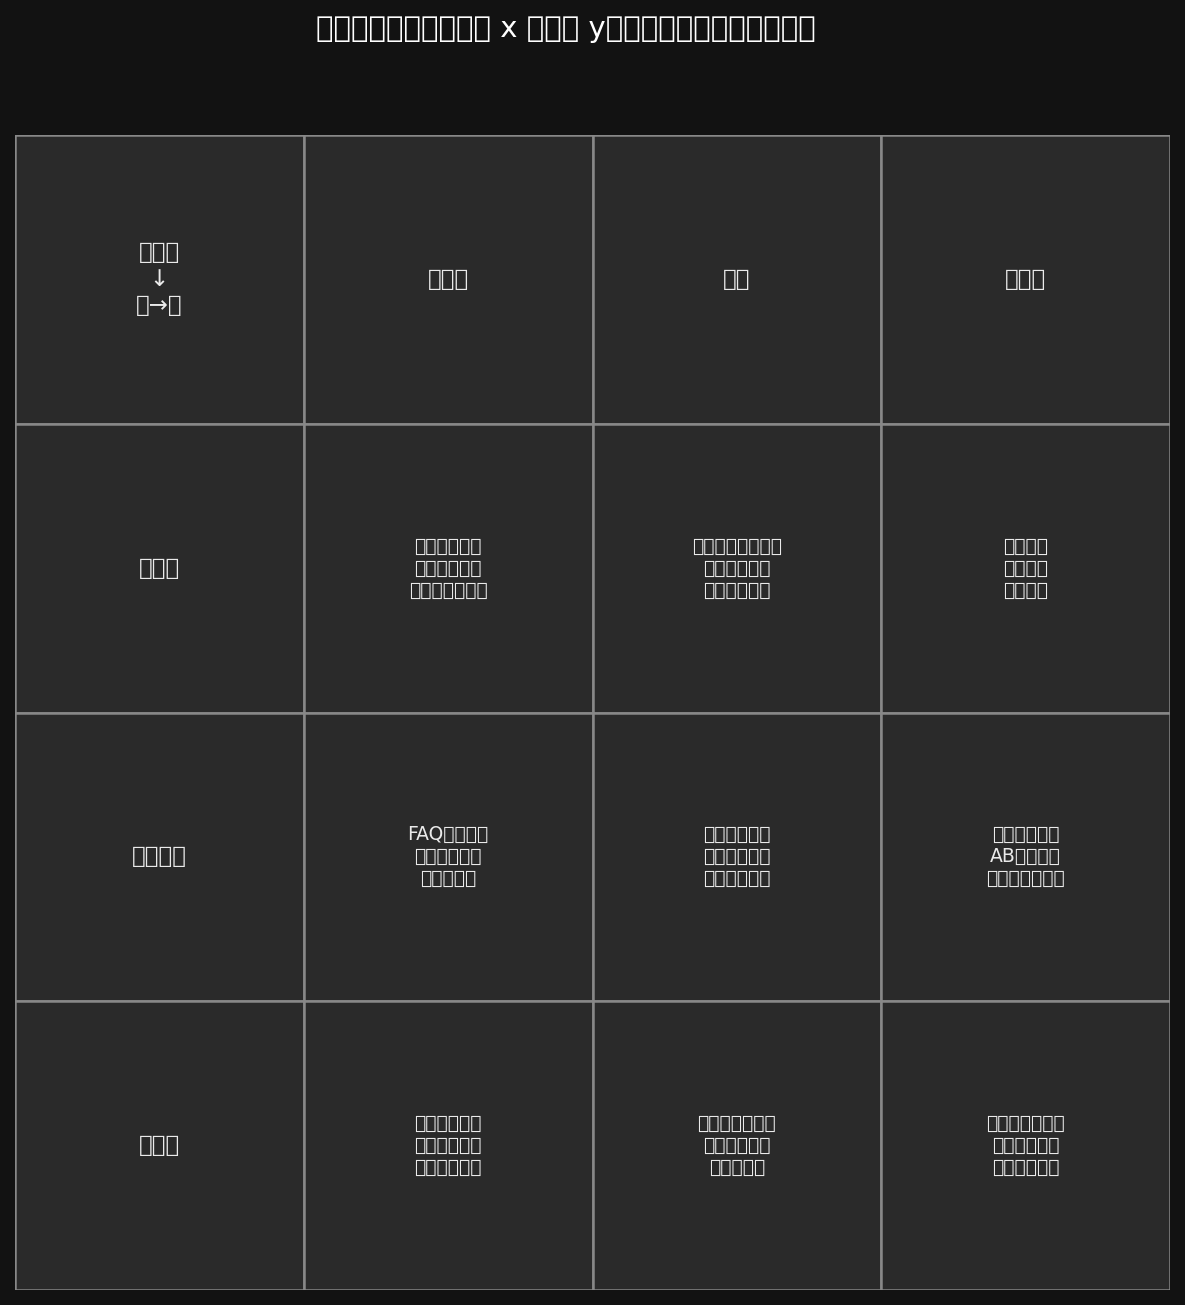
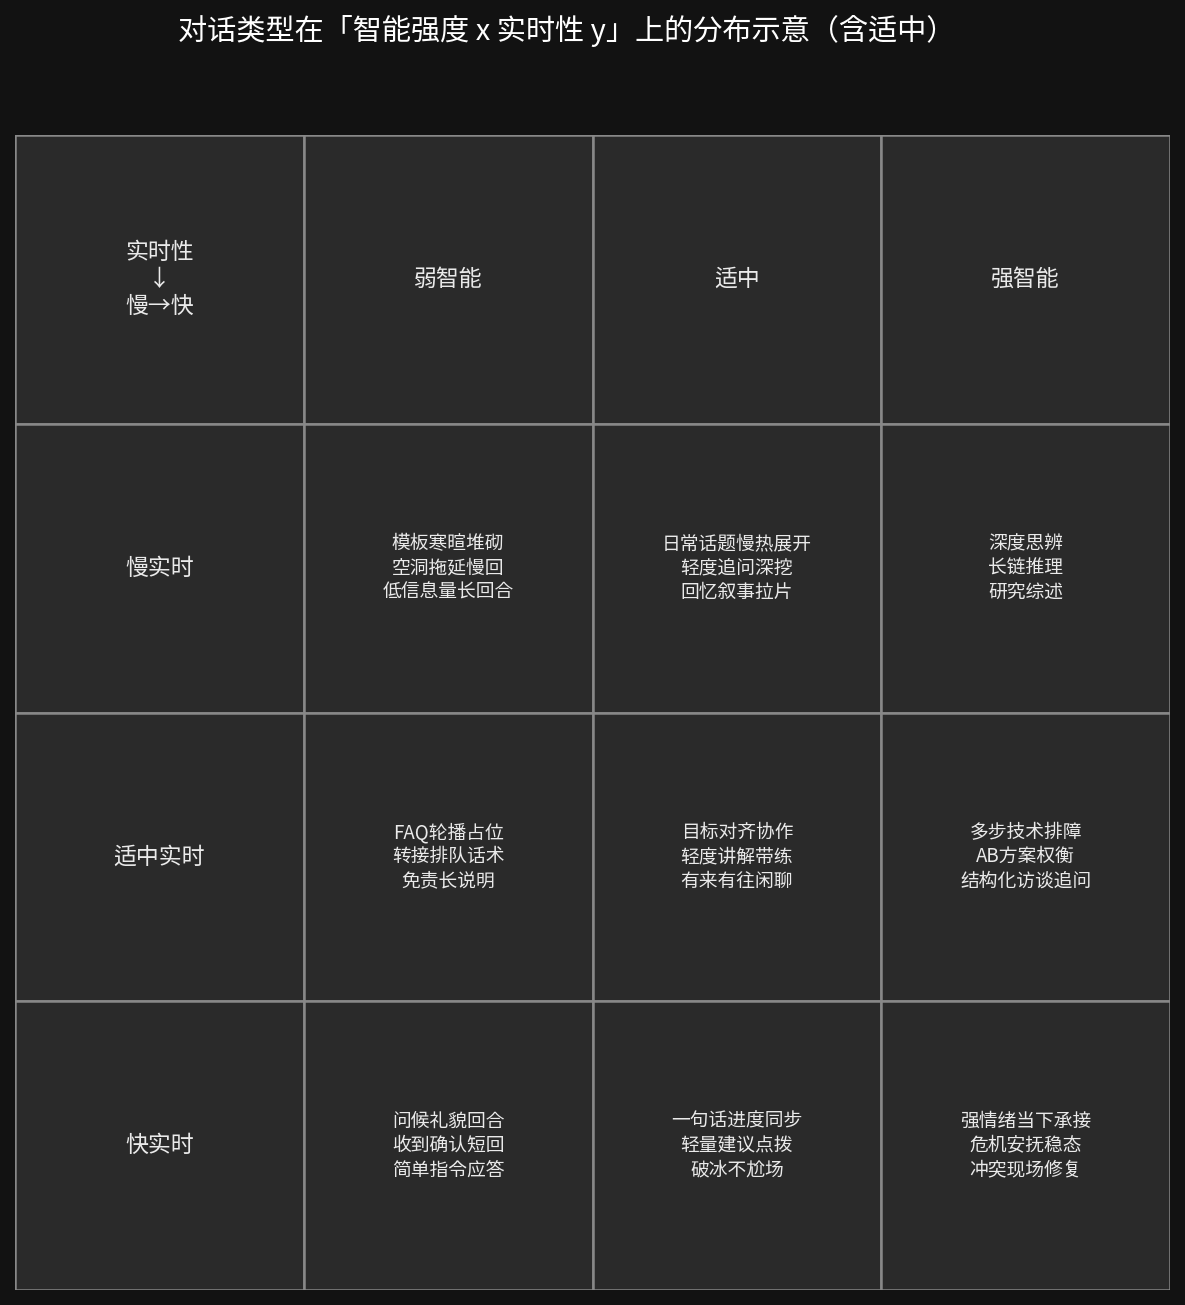
Fix companion harness docs verification issues
Remove the last non-plan old-path residue, drop stale document references, and regenerate the grid image with a CJK-capable font.

diff --git a/.agents/work_logs/2026-05-13/companion-harness-docs-phase2.md b/.agents/work_logs/2026-05-13/companion-harness-docs-phase2.md
@@ -1,6 +1,6 @@
 # Companion Harness docs phase 2
 
-- Phase 2 将旧 `docs/agentic_kernel/` 文档真源收敛到 `docs/companion_harness/`。
+- Phase 2 将旧 harness 文档真源收敛到 `docs/companion_harness/`。
 - 更新 REPL、skills、maintenance、work log、AGENTS 与实验文档中的旧路径引用。
 - 统一当前架构文档术语为 Companion Harness，仅在重构计划的历史迁移说明中保留旧包名。
 - 重新生成 conversation intelligence grid 的 PNG 输出，保证迁移后的文档资源自洽。

diff --git a/docs/companion_harness/todos/COMPANION_HARNESS_USER_MODEL.md b/docs/companion_harness/todos/COMPANION_HARNESS_USER_MODEL.md
@@ -67,4 +67,3 @@
 ## 相关路径
 
 - `/app/core/companion_harness/`
-- `/docs/imate/DEV_PLAN.md`（其它条目如打电话、发短信可与此并行，本文档不替代该文件）
